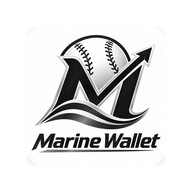
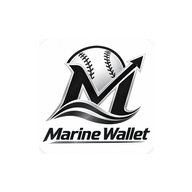
maskable のロゴを 60% に縮め、丸の安全域に収める
Claude-Session: https://claude.ai/code/session_017L5jMTgfx6zhccuUnvUwRB

Changed region(s): [[0.1562, 0.1562, 0.8438, 0.8125]]

diff --git a/app/manifest.ts b/app/manifest.ts
@@ -27,7 +27,7 @@ export default function manifest(): MetadataRoute.Manifest {
       { src: '/icon-192.png', sizes: '192x192', type: 'image/png', purpose: 'any' },
       { src: '/icon-512.png', sizes: '512x512', type: 'image/png', purpose: 'any' },
       // maskable は OS が丸や角丸に切り抜く。通常のアイコンをそのまま渡すと
-      // 文字が縁で切れる（起動画面で実際に切れた）。中央 72% にロゴを収めた
+      // 文字が縁で切れる（起動画面で実際に切れた）。中央 60% にロゴを収めた
       // 専用の画像を渡す（0101）
       { src: '/icon-maskable-192.png', sizes: '192x192', type: 'image/png', purpose: 'maskable' },
       { src: '/icon-maskable-512.png', sizes: '512x512', type: 'image/png', purpose: 'maskable' },
